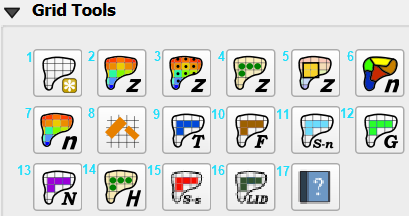
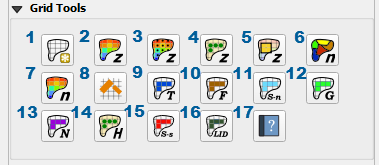
update grid image and hazus tools

diff --git a/source/flo-2d_plugin/user_manual/toolbar/flo-2d-project-review/Hazus Tool.rst b/source/flo-2d_plugin/user_manual/toolbar/flo-2d-project-review/Hazus Tool.rst
@@ -28,21 +28,17 @@ Building Layer
 Import Depth and Water Surface Layers
 --------------------------------------
 
-1. Add a depth
-   layer and a water surface layer.
+1. Add a depth layer and a water surface layer.
 
-2. Click Open
-   Data Source Manager button.
+2. Click Open Data Source Manager button.
 
 .. image:: ../../img/Hazus-Tool/hazustool30.png
 
-3. Fill the form as shown in
-   the following image:
+3. Fill the form as shown in the following image:
 
 .. image:: ../../img/Hazus-Tool/hazustool29.png
 
-4. Repeat this process
-   for the DEPFP.OUT file.
+4. Repeat this process for the DEPFP.OUT file.
 
 Assign Water Elevation and Depth to the Grid Layer
 --------------------------------------------------
